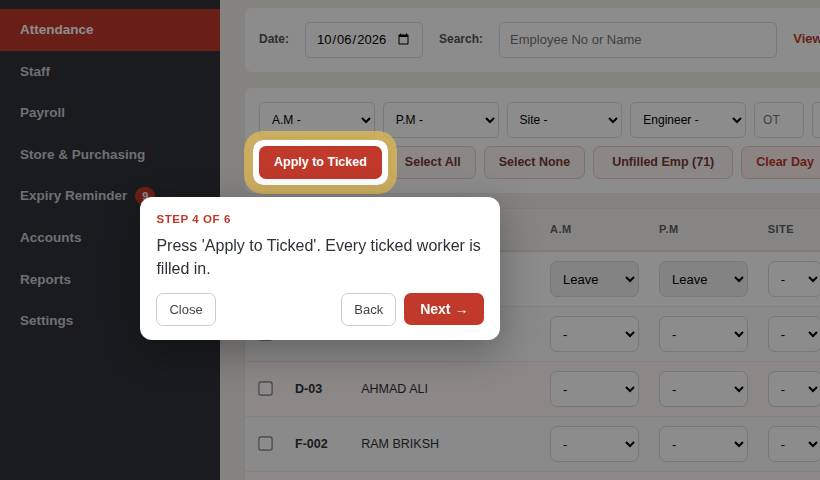
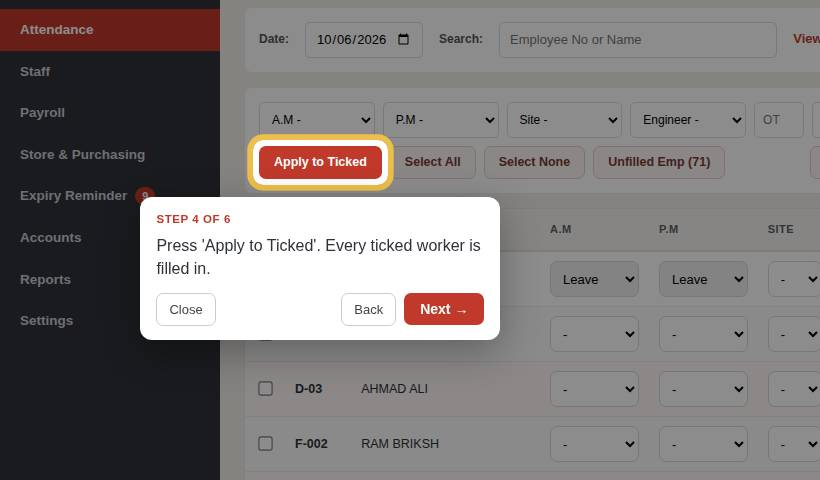
Attendance bar: one main button (Apply to Ticked); Select All, Select None, Unfilled Emp and Daily report all the same plain style; Daily report and Clear Day together on the right; Unfilled shows its count on the button so the bar stays on one line. Help pictures retaken.
Claude-Session: https://claude.ai/code/session_01Csj5JpPYyverKKyxj1ZtTk

Changed region(s): [[0.2744, 0.25, 0.4878, 0.4062], [0.9146, 0.3125, 1.0, 0.375], [0.7317, 0.3125, 0.8841, 0.375]]

diff --git a/app.html b/app.html
@@ -858,7 +858,7 @@
                      box-shadow: 0 4px 14px rgba(0,0,0,0.07); transform: translateY(-1px); }
   .dash-tile-title { font-weight: 700; font-size: 14.5px; color: #7A3B33; }
   .dash-tile-sub { font-size: 12px; color: #927068; margin-top: 4px; }
-  #store-report-stats:empty { display: none; } .dash-calendar { min-height: 131px; align-content: start; } .dash-calendar .empty-note { grid-column: 1 / -1; align-self: center; text-align: center; } #unfilled-btn { min-width: 140px; } .att-head > .att-cal { min-width: 222px; }
+  #store-report-stats:empty { display: none; } .dash-calendar { min-height: 131px; align-content: start; } .dash-calendar .empty-note { grid-column: 1 / -1; align-self: center; text-align: center; } #unfilled-btn.on { border-color: var(--red); color: var(--red); background: #fff; } .att-head > .att-cal { min-width: 222px; }
   .dash-calendar { display: grid; grid-template-columns: repeat(7, 1fr); gap: 2px; max-width: 320px; margin: 0 auto; }
   .dash-cal-head { font-size: 8px; font-weight: bold; color: #888; text-align: center; padding: 2px 0; }
   .dash-cal-day { border-radius: 4px; padding: 4px 2px; text-align: center; font-size: 9px; font-weight: bold; cursor: pointer; color: white; }
@@ -1236,7 +1236,7 @@
   } catch (e) {}
 })();
 </script>
-<script>(function(){var B="00b9e70af667";try{fetch("/app-version.json?t="+Date.now(),{cache:"no-store"}).then(function(r){return r.ok?r.json():null}).then(function(v){if(!v||!v.build||v.build===B)return;var k="app-reload-"+v.build;try{if(sessionStorage.getItem(k))return;sessionStorage.setItem(k,"1")}catch(e){}Promise.all([fetch(location.href,{cache:"reload"}),fetch("/app.html",{cache:"reload"}),fetch("/",{cache:"reload"})]).catch(function(){}).then(function(){location.reload()})}).catch(function(){})}catch(e){}})();</script></head>
+<script>(function(){var B="9b76091dbf86";try{fetch("/app-version.json?t="+Date.now(),{cache:"no-store"}).then(function(r){return r.ok?r.json():null}).then(function(v){if(!v||!v.build||v.build===B)return;var k="app-reload-"+v.build;try{if(sessionStorage.getItem(k))return;sessionStorage.setItem(k,"1")}catch(e){}Promise.all([fetch(location.href,{cache:"reload"}),fetch("/app.html",{cache:"reload"}),fetch("/",{cache:"reload"})]).catch(function(){}).then(function(){location.reload()})}).catch(function(){})}catch(e){}})();</script></head>
 <body>
 
 <div id="toast-wrap"></div>
@@ -1460,8 +1460,9 @@
                 <button class="btn btn-dark" onclick="selectNone()">Select None</button>
               <button class="btn btn-dark" id="unfilled-btn" onclick="toggleUnfilled()">Unfilled Emp</button>
               <span id="unfilled-note" style="display:none; font-size:12px; color:#B26A00; margin-left:4px;"></span>
+                <span style="flex:1;"></span>
+                <button class="btn btn-dark" id="daily-report-btn" onclick="openDailyReport()" title="Present, absent, sick, site-wise numbers or names for the date above">Daily report</button>
                 <button class="btn btn-danger" onclick="openClearDayModal()">Clear Day</button>
-                <button class="btn btn-primary" id="daily-report-btn" onclick="openDailyReport()" title="Present, absent, sick, site-wise numbers or names for the date above">Daily report</button>
               </div>
             </div>
           </div>
@@ -4866,7 +4867,7 @@ function toggleUnfilled() {
   showUnfilledOnly = !showUnfilledOnly;
   const btn = document.getElementById("unfilled-btn");
   btn.textContent = showUnfilledOnly ? "Show everyone" : "Unfilled Emp";
-  btn.className = showUnfilledOnly ? "btn btn-primary" : "btn btn-dark";
+  btn.className = "btn btn-dark" + (showUnfilledOnly ? " on" : "");   // one main button on the bar: Apply to Ticked
   renderRows();
 }
 
@@ -4919,14 +4920,13 @@ function renderRows() {
 
   const btn = document.getElementById("unfilled-btn");
   if (btn) btn.textContent = showUnfilledOnly
-    ? "Show everyone" : (unfilled ? `Unfilled Emp (${num(unfilled)})` : "Unfilled Emp");
+    ? `Show everyone (${num(shown)} unfilled)` : (unfilled ? `Unfilled Emp (${num(unfilled)})` : "Unfilled Emp");
   const note = document.getElementById("unfilled-note");
   if (note) {
     // The button says what pressing it does, not what is being shown, so
     // the only sign of the filter was an empty grid. It says which it is.
     note.textContent = showUnfilledOnly
-      ? (shown ? `Showing only cards that are not finished - ${num(shown)} of ${num(staff.length)}.`
-               : "Every card is finished for this day.")
+      ? (shown ? "" : "Every card is finished for this day.")
       : "";
     note.style.display = showUnfilledOnly ? "" : "none";
   }
@@ -16385,8 +16385,8 @@ async function pgRepDownload(fmt) { const u = await pgRepUrl(fmt); if (u) window
 </script>
 <link rel="stylesheet" href="/portal/help/help.css?v=47670d4177">
 <script src="/portal/help/guides.js?v=25538c3329"></script>
-<script src="/portal/help/auto_guides.js?v=d0920c2955"></script>
-<script src="/portal/help/img/manifest.js?v=4e45ca2840"></script>
+<script src="/portal/help/auto_guides.js?v=f3ce792651"></script>
+<script src="/portal/help/img/manifest.js?v=838cdcc0ad"></script>
 <script src="/portal/help/help.js?v=293dff7e28"></script>
 </body>
 </html>

diff --git a/app-classic.html b/app-classic.html
@@ -857,7 +857,7 @@
                      box-shadow: 0 4px 14px rgba(0,0,0,0.07); transform: translateY(-1px); }
   .dash-tile-title { font-weight: 700; font-size: 14.5px; color: #7A3B33; }
   .dash-tile-sub { font-size: 12px; color: #927068; margin-top: 4px; }
-  #store-report-stats:empty { display: none; } .dash-calendar { min-height: 131px; align-content: start; } .dash-calendar .empty-note { grid-column: 1 / -1; align-self: center; text-align: center; } #unfilled-btn { min-width: 140px; } .att-head > .att-cal { min-width: 222px; }
+  #store-report-stats:empty { display: none; } .dash-calendar { min-height: 131px; align-content: start; } .dash-calendar .empty-note { grid-column: 1 / -1; align-self: center; text-align: center; } #unfilled-btn.on { border-color: var(--red); color: var(--red); background: #fff; } .att-head > .att-cal { min-width: 222px; }
   .dash-calendar { display: grid; grid-template-columns: repeat(7, 1fr); gap: 2px; max-width: 320px; margin: 0 auto; }
   .dash-cal-head { font-size: 8px; font-weight: bold; color: #888; text-align: center; padding: 2px 0; }
   .dash-cal-day { border-radius: 4px; padding: 4px 2px; text-align: center; font-size: 9px; font-weight: bold; cursor: pointer; color: white; }
@@ -1285,8 +1285,9 @@
                 <button class="btn btn-dark" onclick="selectNone()">Select None</button>
               <button class="btn btn-dark" id="unfilled-btn" onclick="toggleUnfilled()">Unfilled Emp</button>
               <span id="unfilled-note" style="display:none; font-size:12px; color:#B26A00; margin-left:4px;"></span>
+                <span style="flex:1;"></span>
+                <button class="btn btn-dark" id="daily-report-btn" onclick="openDailyReport()" title="Present, absent, sick, site-wise numbers or names for the date above">Daily report</button>
                 <button class="btn btn-danger" onclick="openClearDayModal()">Clear Day</button>
-                <button class="btn btn-primary" id="daily-report-btn" onclick="openDailyReport()" title="Present, absent, sick, site-wise numbers or names for the date above">Daily report</button>
               </div>
             </div>
           </div>
@@ -4660,7 +4661,7 @@ function toggleUnfilled() {
   showUnfilledOnly = !showUnfilledOnly;
   const btn = document.getElementById("unfilled-btn");
   btn.textContent = showUnfilledOnly ? "Show everyone" : "Unfilled Emp";
-  btn.className = showUnfilledOnly ? "btn btn-primary" : "btn btn-dark";
+  btn.className = "btn btn-dark" + (showUnfilledOnly ? " on" : "");   // one main button on the bar: Apply to Ticked
   renderRows();
 }
 
@@ -4713,14 +4714,13 @@ function renderRows() {
 
   const btn = document.getElementById("unfilled-btn");
   if (btn) btn.textContent = showUnfilledOnly
-    ? "Show everyone" : (unfilled ? `Unfilled Emp (${num(unfilled)})` : "Unfilled Emp");
+    ? `Show everyone (${num(shown)} unfilled)` : (unfilled ? `Unfilled Emp (${num(unfilled)})` : "Unfilled Emp");
   const note = document.getElementById("unfilled-note");
   if (note) {
     // The button says what pressing it does, not what is being shown, so
     // the only sign of the filter was an empty grid. It says which it is.
     note.textContent = showUnfilledOnly
-      ? (shown ? `Showing only cards that are not finished - ${num(shown)} of ${num(staff.length)}.`
-               : "Every card is finished for this day.")
+      ? (shown ? "" : "Every card is finished for this day.")
       : "";
     note.style.display = showUnfilledOnly ? "" : "none";
   }

diff --git a/portal/help/img/manifest.js b/portal/help/img/manifest.js
@@ -1,3 +1,3 @@
 // Written by tests/help_screens.js - which guide has which step pictures.
 window.HELP_IMGS = {"scr-dashboard-dashboard":[1],"scr-attendance-attendance":[1],"scr-attendance-livecard":[1],"scr-attendance-masterdata":[1],"scr-payroll-labourpay-combine":[1],"scr-payroll-labourpay-adjust":[1],"scr-payroll-labourpay-errorcheck":[1],"scr-payroll-hrpayroll-cycle":[1],"scr-payroll-hrpayroll-leave":[1],"scr-payroll-hrpayroll-items":[1],"scr-payroll-hrpayroll-loans":[1],"scr-payroll-hrpayroll-staff":[1],"scr-payroll-hrpayroll-increments":[1],"scr-payroll-hrpayroll-gratuity":[1],"scr-expiry-expiry-people":[1],"scr-expiry-expiry-company":[1],"scr-expiry-expiry-pdc":[1],"scr-accounts-taxinv":[1],"scr-accounts-proforma":[1],"scr-accounts-petty-site":[1],"scr-accounts-petty-pro":[1],"scr-accounts-petty-office":[1],"scr-accounts-petty-naveen":[1],"scr-accounts-petty-praveen":[1],"scr-accounts-projects":[1],"scr-store-store-home":[1],"scr-store-store-give":[1],"scr-store-store-arrive":[1],"scr-store-store-other":[1],"scr-store-store-items":[1],"scr-store-rentals-hire":[1],"scr-store-rentals-returns":[1],"scr-store-requests-requests":[1],"scr-store-requests-approvals":[1],"scr-store-requests-followup":[1],"scr-store-purchasing-purchase":[1],"scr-store-purchasing-lporegister":[1],"scr-store-purchasing-suppliers":[1],"scr-reports-labour-builder":[1],"scr-reports-labour-monthly":[1],"scr-reports-labour-cards":[1],"scr-reports-labour-leavereport":[1],"scr-reports-storerep-stock":[1],"scr-reports-storerep-by_site":[1],"scr-reports-storerep-usage":[1],"scr-reports-storerep-site_cost":[1],"scr-reports-storerep-assets":[1],"scr-reports-storerep-issues":[1],"scr-reports-storerep-lost":[1],"scr-reports-storerep-hired":[1],"scr-reports-storerep-mr_history":[1],"scr-settings-general":[1],"scr-settings-companies":[1],"scr-settings-logins":[1],"scr-settings-access":[1],"scr-settings-activity":[1],"scr-people-register":[1],"scr-people-due":[1],"scr-people-vacation":[1],"scr-people-bday":[1],"att-mark":[1,2,3,4,5,6],"att-holiday":[1,2,3,4,5,6],"att-fix":[1,2,3,4],"att-livecard":[1,2,3],"worker-add":[1,2,3,4,5,6],"worker-increment":[1,2,3,4],"worker-leaves":[1,2,3,4],"staff-leaves":[1,2,3,4,5],"staff-add":[1,2],"stock-check":[1,2],"stock-add":[1,2,3,4],"item-new":[1,2,3,4],"arrived":[1,2,3],"move":[1,2,3,4,5],"return-store":[1,2,3,4],"lost":[1,2,3,4],"count-fix":[1,2,3],"rent-in":[1,2,3,4],"request":[1,2,3,4],"approve":[1,2],"lpo":[1,2,3,4],"lpo-find":[1,2,3],"supplier":[1,2,3],"petty":[1,2,3,4,5,6],"check-pay":[1,2,3],"labour-add-ded":[1,2,3,4,5],"labour-cards":[1,2,3],"labour-full":[1,2],"office-pay":[1,2,3,4],"office-full":[1,2],"office-absence":[1,2,3,4],"office-add-ded":[1,2,3,4],"office-loan":[1,2,3,4],"office-increment":[1,2,3],"expiry-check":[1,2],"expiry-person":[1,2,3,4],"expiry-company":[1,2,3,4],"pdc-add":[1,2,3,4,5],"pdc-clear":[1,2],"inv-tax":[1,2,3,4,5,6,7],"inv-proforma":[1,2,3,4],"inv-convert":[1,2],"inv-fix":[1,2],"proj-pay":[1,2,3,4],"inv-signature":[1,2,3],"report-cycle":[1,2,3],"report-stock":[1,2],"login-new":[1,2],"petty-access":[1,2],"password":[1,2,3],"backup":[1],"access-tabs":[1,2,3,4],"staff-leave-add":[1,2,3,4],"bday-client":[1,2,3],"report-site-cost":[1,2,3]};
-window.HELP_IMGS_V = "be7abe7c52";
+window.HELP_IMGS_V = "d329d3ca86";

diff --git a/portal/help/auto_guides.js b/portal/help/auto_guides.js
@@ -29,7 +29,7 @@ window.HELP_AUTO = [
   "area": "Every screen",
   "title": "Attendance > Daily attendance",
   "auto": true,
-  "words": "attendance   daily attendance apply to ticked select all select none unfilled emp  71  clear day daily report     screen buttons what is",
+  "words": "attendance   daily attendance apply to ticked select all select none unfilled emp  71  daily report clear day     screen buttons what is",
   "go": {
    "page": "attendance",
    "tab": "attendance"
@@ -55,12 +55,12 @@ window.HELP_AUTO = [
     "el": "#unfilled-btn"
    },
    {
-    "say": "5. Clear Day.",
-    "el": "button[onclick=\"openClearDayModal()\"]"
+    "say": "5. Daily report: Present, absent, sick, site-wise numbers or names for the date above.",
+    "el": "#daily-report-btn"
    },
    {
-    "say": "6. Daily report: Present, absent, sick, site-wise numbers or names for the date above.",
-    "el": "#daily-report-btn"
+    "say": "6. Clear Day.",
+    "el": "button[onclick=\"openClearDayModal()\"]"
    },
    {
     "say": "7. ◀.",
